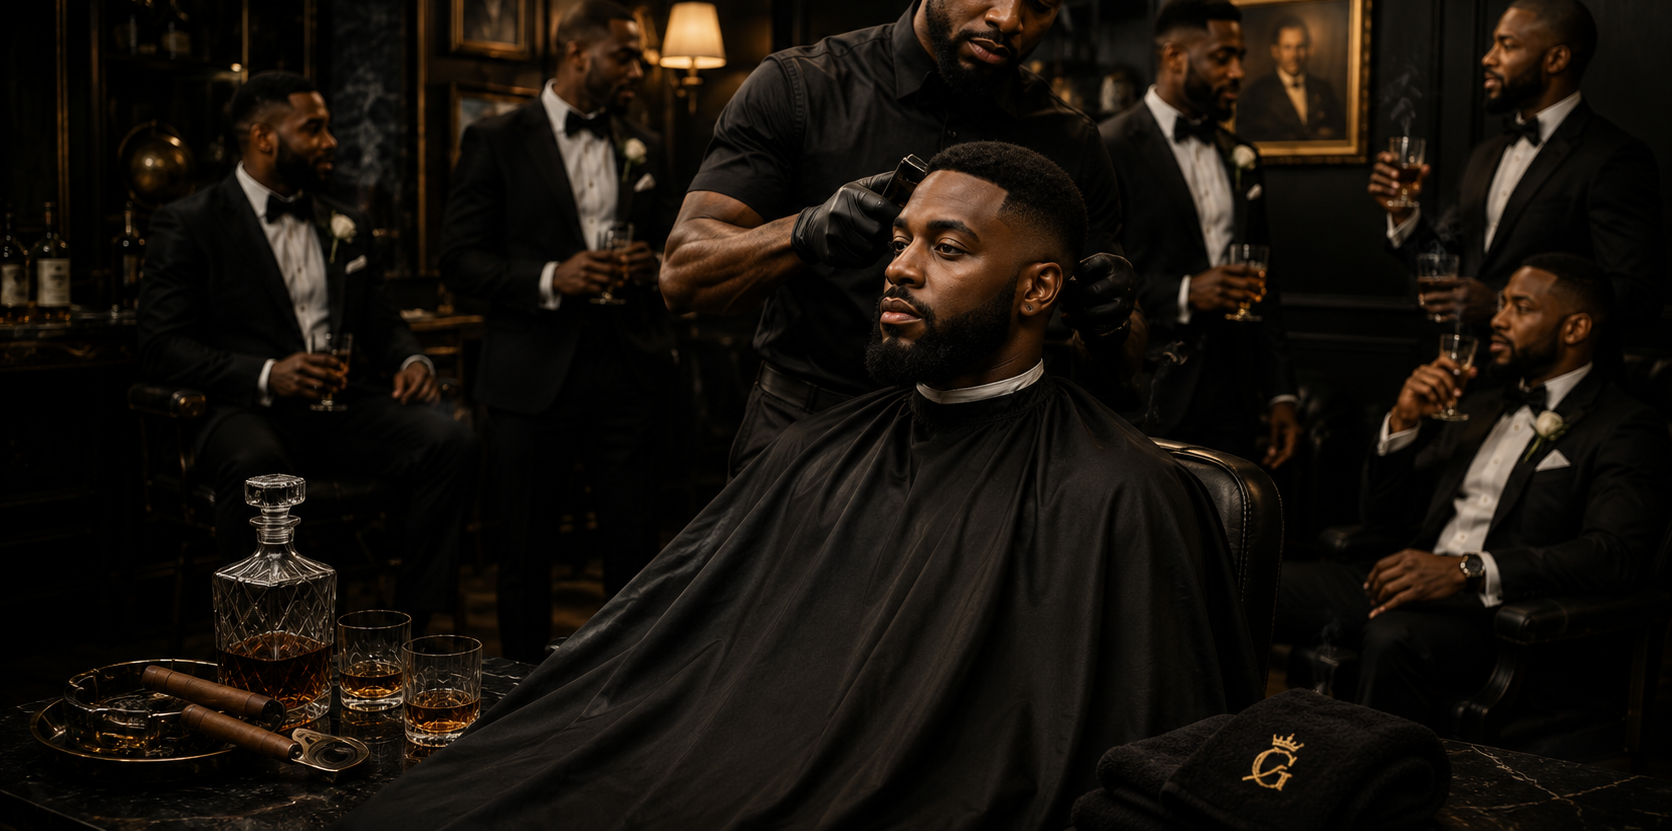
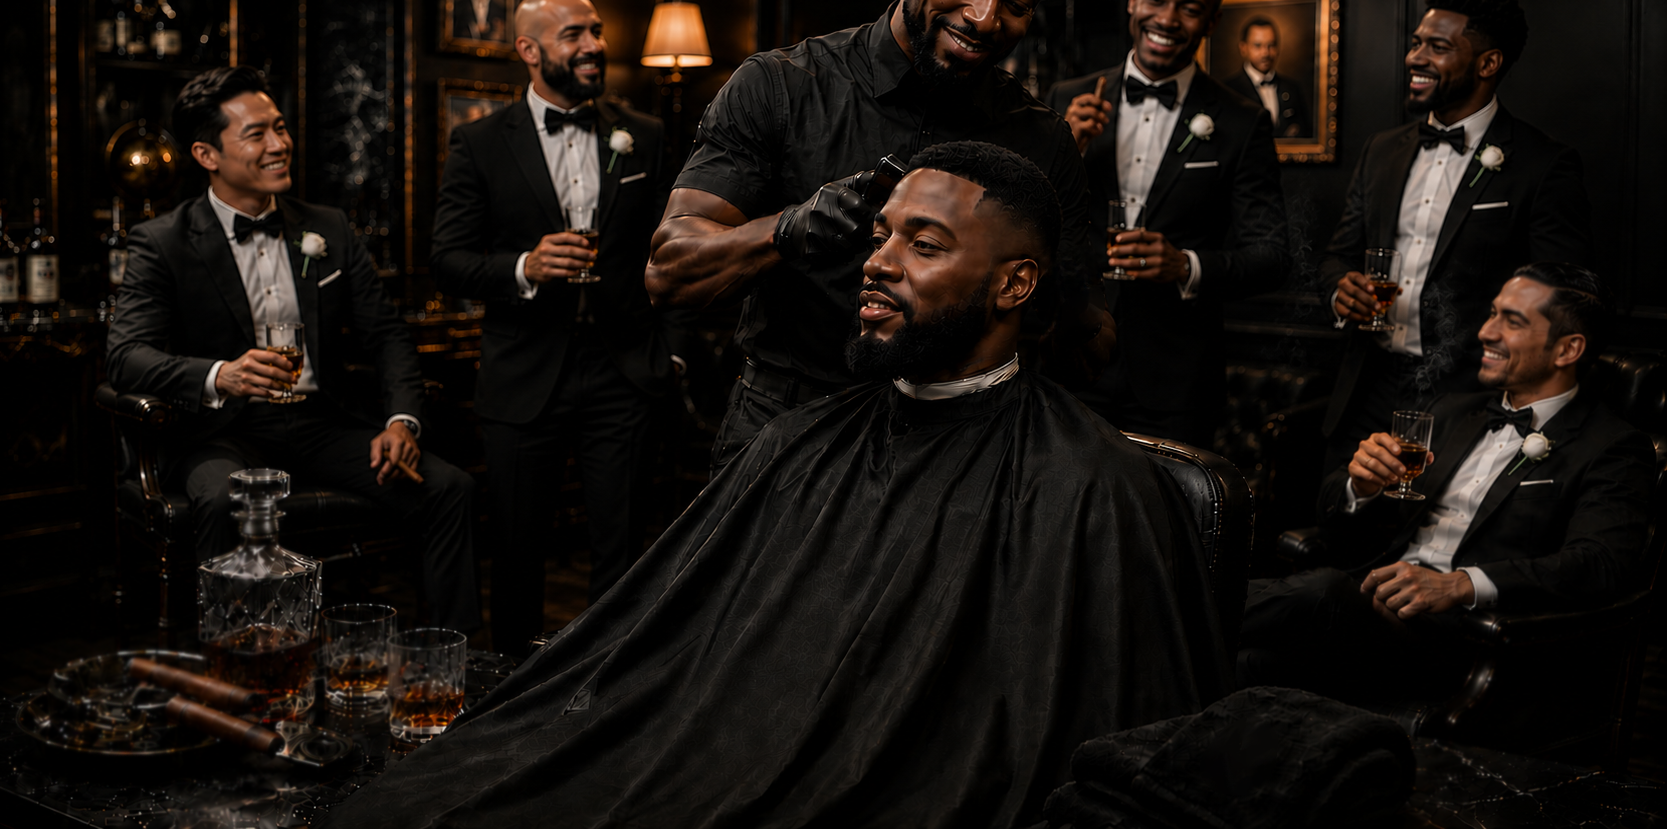
Added mobile responsive CSS for all screens

diff --git a/static/css/style.css b/static/css/style.css
@@ -15,9 +15,7 @@
   --font-body: 'Montserrat', sans-serif;
 }
 
-html {
-  font-size: 14px;
-}
+html { font-size: 14px; }
 
 body {
   font-family: var(--font-body);
@@ -275,7 +273,7 @@ body {
   width: 100%;
   height: 100%;
   object-fit: cover;
-  object-position: center top;
+  object-position: center center;
   display: block;
 }
 
@@ -471,7 +469,7 @@ body {
 .badge-confirmed { border-color: rgba(46,204,113,0.4); color: #2ecc71; background: rgba(46,204,113,0.07); }
 .badge-pending   { border-color: rgba(201,168,76,0.4); color: var(--gold); background: rgba(201,168,76,0.07); }
 .badge-rejected  { border-color: rgba(231,76,60,0.4); color: #e74c3c; background: rgba(231,76,60,0.07); }
-.action-btns { display: flex; gap: 0.4rem; }
+.action-btns { display: flex; gap: 0.4rem; flex-wrap: wrap; }
 .action-btn {
   padding: 0.35rem 0.75rem;
   font-size: 0.6rem;
@@ -620,7 +618,7 @@ body {
   width: 100%;
   height: 100%;
   object-fit: cover;
-  object-position: center;
+  object-position: center center;
   display: block;
 }
 
@@ -756,16 +754,13 @@ body {
   margin-left: 0.3rem;
   animation: blink 1s infinite;
 }
-
 @keyframes blink {
   0%, 100% { opacity: 1; }
   50% { opacity: 0; }
 }
 
 /* CALENDAR */
-.calendar-wrapper {
-  padding: 2rem 3rem;
-}
+.calendar-wrapper { padding: 2rem 3rem; }
 .calendar-events {
   display: flex;
   flex-direction: column;
@@ -788,9 +783,125 @@ body {
   color: var(--gold);
   font-weight: 500;
 }
-
 .conflict-row {
   background: rgba(231,76,60,0.4) !important;
   border-left: 3px solid #e74c3c;
 }
 .conflict-row:hover { background: rgba(231,76,60,0.5) !important; }
+
+/* ══════════════════════════════════════
+   RESPONSIVE — MOBILE
+══════════════════════════════════════ */
+@media (max-width: 768px) {
+
+  html { font-size: 12px; }
+
+  /* NAV */
+  .navbar {
+    padding: 1rem 1.5rem;
+    flex-wrap: wrap;
+    gap: 0.75rem;
+  }
+  .nav-links {
+    gap: 1rem;
+    flex-wrap: wrap;
+  }
+  .nav-links a { font-size: 0.6rem; }
+
+  /* FLASH */
+  .flash, .flash-alert {
+    padding: 0.8rem 1rem;
+    font-size: 0.8rem;
+  }
+
+  /* BUTTONS */
+  .btn-gold, .btn-outline, .btn-ghost {
+    padding: 0.6rem 1rem;
+    font-size: 0.65rem;
+  }
+
+  /* FORMS */
+  .form-row { grid-template-columns: 1fr; }
+
+  /* HOMEPAGE */
+  .hero { grid-template-columns: 1fr; }
+  .hero-image { display: block; height: 300px; }
+  .hero-content { padding: 3rem 1.5rem; }
+
+  .features-strip {
+    grid-template-columns: 1fr 1fr;
+    padding: 2rem 1.5rem;
+  }
+  .feature-item {
+    padding: 1rem;
+    border-right: none;
+    border-bottom: 1px solid rgba(201,168,76,0.12);
+  }
+
+  .services-grid { grid-template-columns: 1fr 1fr; }
+
+  .experience-section { grid-template-columns: 1fr; }
+  .experience-image {
+    height: 250px;
+  }
+  .experience-image img {
+    object-position: center center;
+  }
+
+  .inquiry-wrapper {
+    grid-template-columns: 1fr;
+    gap: 2rem;
+    padding: 2rem 1.5rem;
+  }
+
+  /* PORTAL */
+  .portal-body {
+    grid-template-columns: 1fr;
+    padding: 1.5rem;
+  }
+  .portal-header {
+    flex-direction: column;
+    align-items: flex-start;
+    gap: 1rem;
+    padding: 1.5rem;
+  }
+  .portal-card { padding: 1.5rem; }
+
+  /* MESSAGES */
+  .messages-wrapper {
+    padding: 1.5rem;
+    height: auto;
+    min-height: calc(100vh - 160px);
+  }
+  .messages-thread { min-height: 200px; }
+  .message-bubble { max-width: 85%; }
+
+  /* ADMIN */
+  .admin-header {
+    flex-direction: column;
+    align-items: flex-start;
+    gap: 1rem;
+    padding: 1.5rem;
+  }
+  .admin-body { padding: 1rem 1.5rem; }
+  .stats-bar { grid-template-columns: repeat(3, 1fr); }
+  .bookings-table { font-size: 0.65rem; }
+  .bookings-table th,
+  .bookings-table td { padding: 0.6rem 0.5rem; }
+
+  .calendar-wrapper { padding: 1rem 1.5rem; }
+  .calendar-event-row {
+    grid-template-columns: 1fr;
+    gap: 0.5rem;
+    padding: 1rem;
+  }
+
+  /* FOOTER */
+  .footer {
+    flex-direction: column;
+    gap: 0.5rem;
+    text-align: center;
+    padding: 1.5rem;
+  }
+
+}